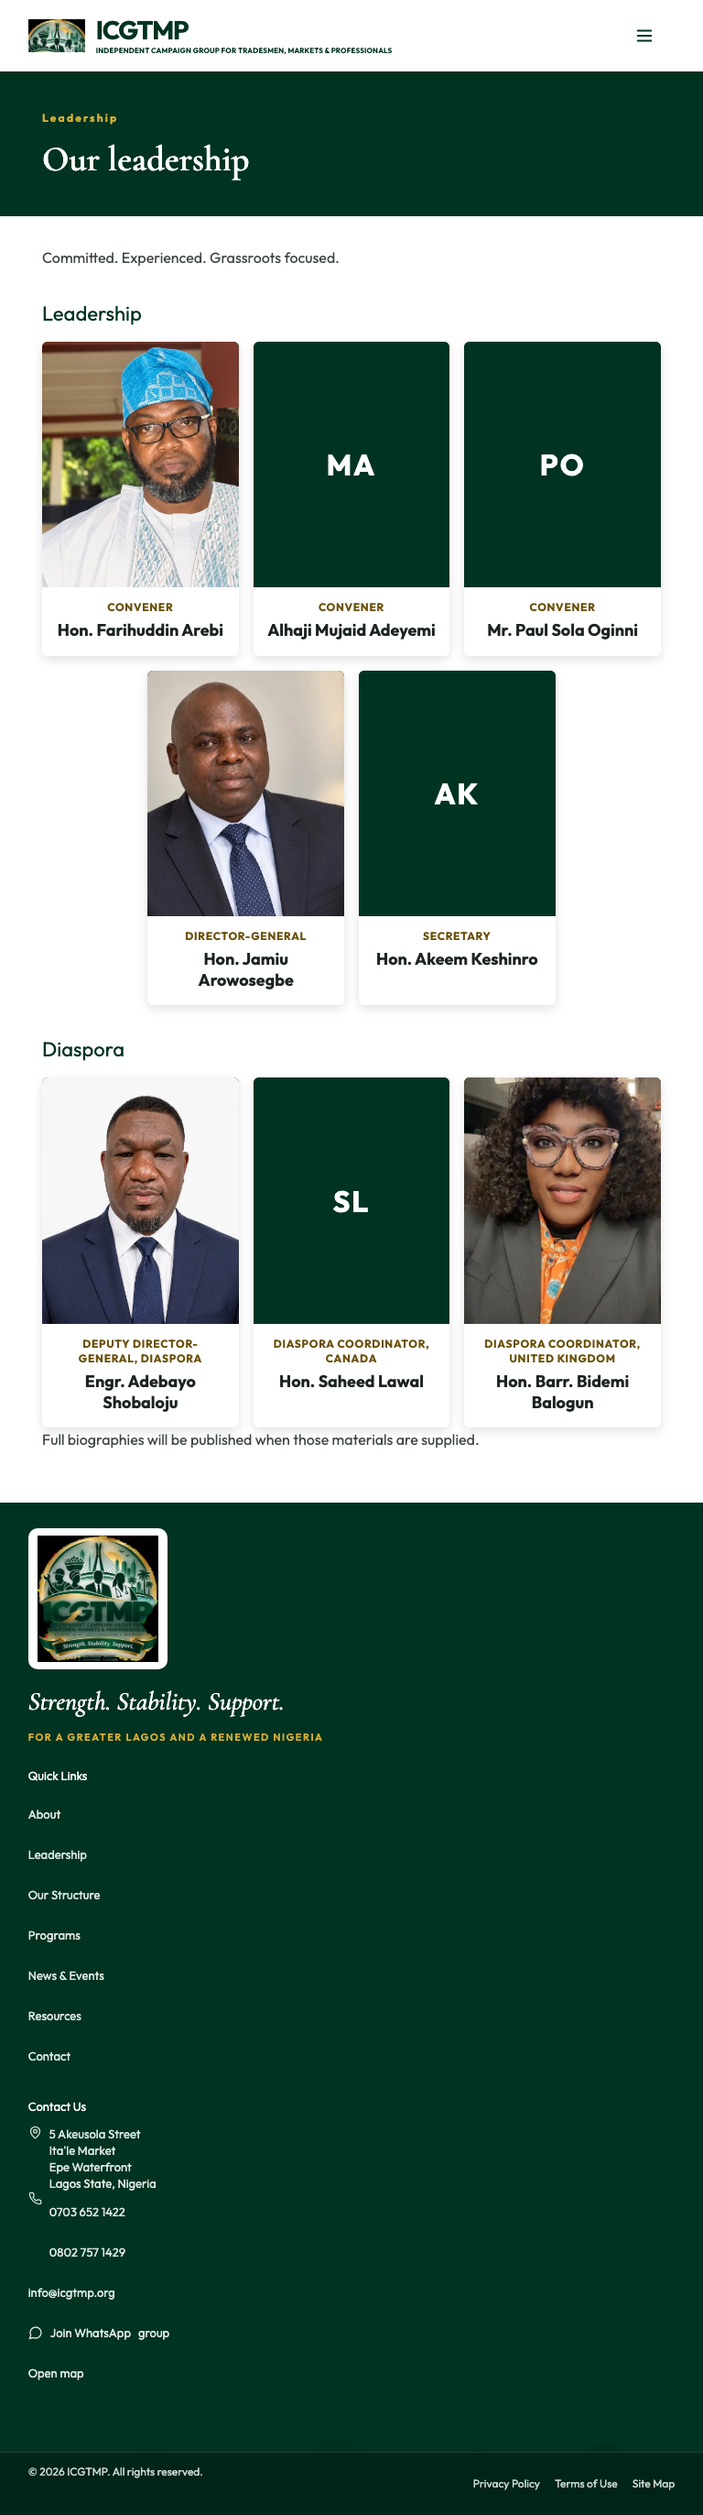
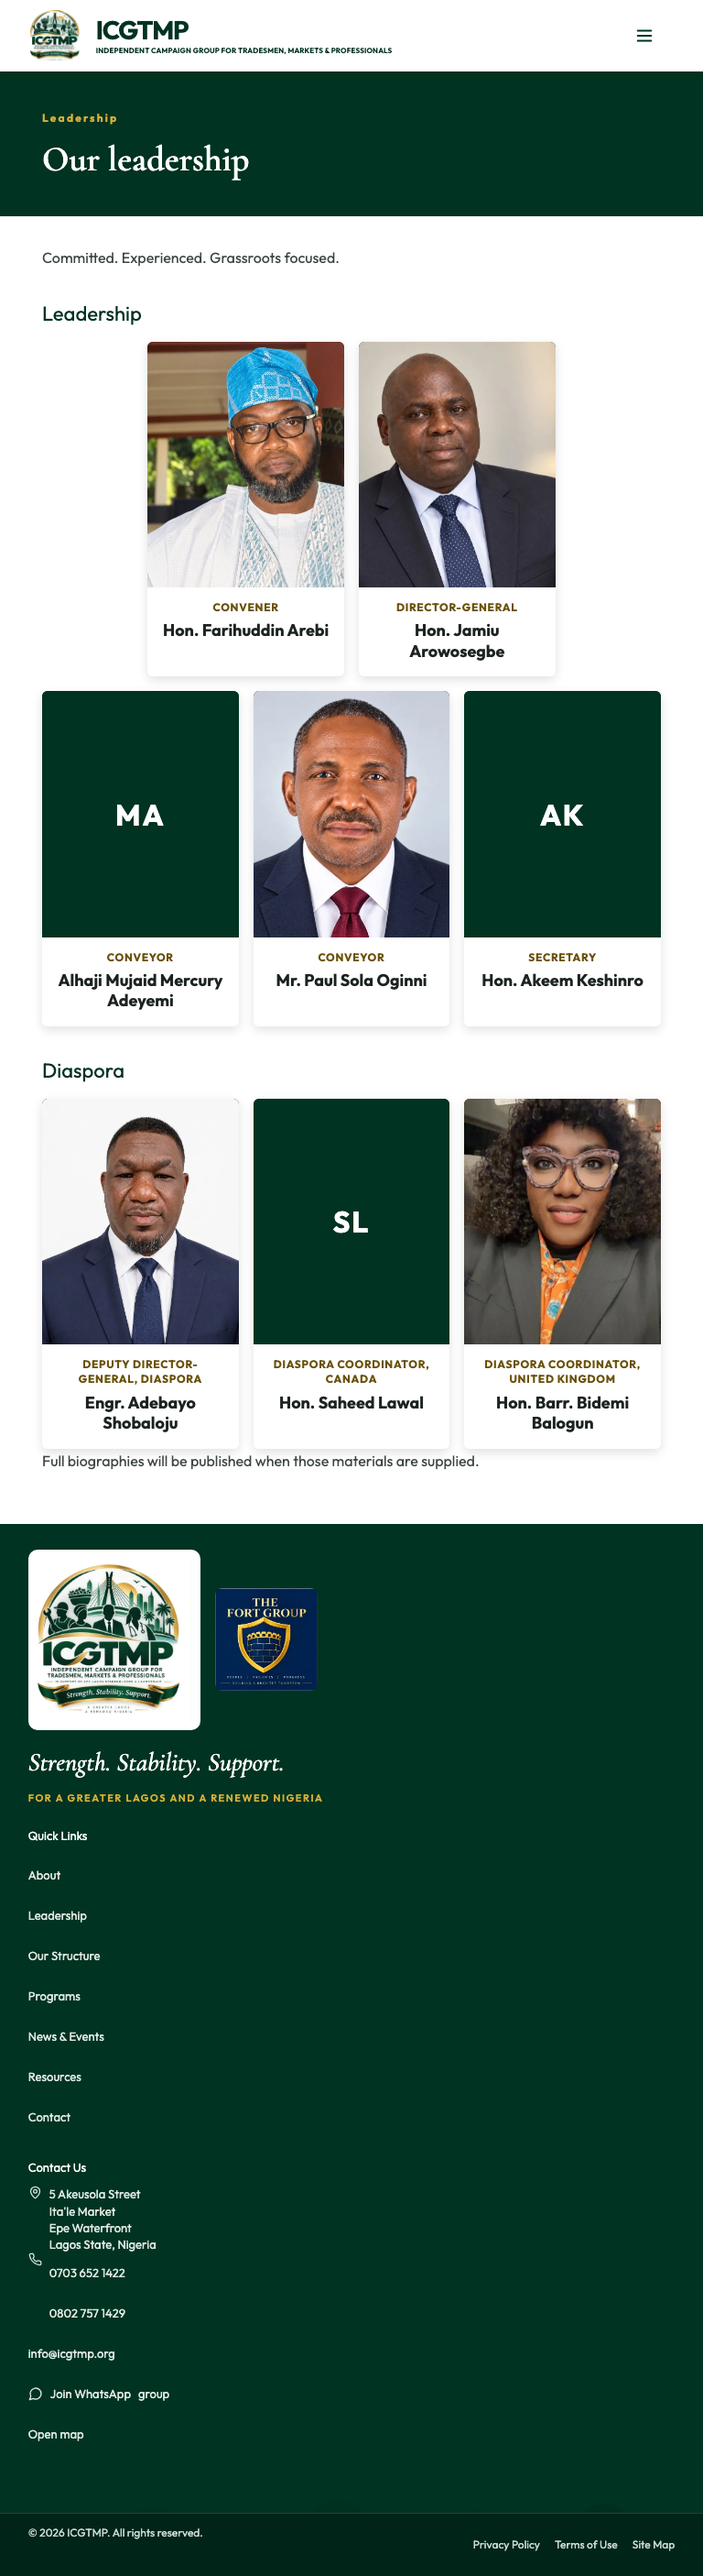
Place the Conveyors under the Convener and Director-General, and use the official marks.

diff --git a/src/index.css b/src/index.css
@@ -739,11 +739,11 @@ section[id], article[id], footer[id], #home, #home-lower { scroll-margin-top: 12
   gap: var(--leader-gap);
   align-items: stretch;
 }
-.leaderRowLeadership { grid-template-columns: repeat(5, minmax(0, 1fr)); }
-.leaderRowDiaspora {
-  grid-template-columns: repeat(3, calc((100% - 4 * var(--leader-gap)) / 5));
-  justify-content: center;
-}
+.leaderRowLeadership { grid-template-columns: repeat(6, minmax(0, 1fr)); }
+.leaderRowLeadership .leaderCard { grid-column: span 2; }
+.leaderRowLeadership .leaderCard:nth-child(1) { grid-column: 2 / span 2; }
+.leaderRowLeadership .leaderCard:nth-child(2) { grid-column: 4 / span 2; }
+.leaderRowDiaspora { grid-template-columns: repeat(3, minmax(0, 1fr)); }
 .leaderCard {
   background: #fff;
   border-radius: 6px;
@@ -1024,10 +1024,12 @@ section[id], article[id], footer[id], #home, #home-lower { scroll-margin-top: 12
   padding: 8px 10px;
 }
 .brandLogoPlate img {
-  width: 132px;
+  width: 168px;
   height: auto;
 }
 .footerBrand { display: flex; flex-direction: column; gap: 14px; }
+.footerMarks { display: flex; align-items: center; gap: 16px; flex-wrap: wrap; }
+.fortMark { width: 112px; height: auto; border-radius: 8px; display: block; }
 .footerMotto { display: flex; flex-direction: column; justify-content: center; }
 .footerMotto em {
   font-family: var(--font-serif);
@@ -1433,13 +1435,6 @@ main h1:focus-visible {
   }
 }
 
-@media (max-width: 1279px) {
-  .leaderRowLeadership { grid-template-columns: repeat(6, minmax(0, 1fr)); }
-  .leaderRowLeadership .leaderCard { grid-column: span 2; }
-  .leaderRowLeadership .leaderCard:nth-child(4) { grid-column: 2 / span 2; }
-  .leaderRowLeadership .leaderCard:nth-child(5) { grid-column: 4 / span 2; }
-  .leaderRowDiaspora { grid-template-columns: repeat(3, minmax(0, 1fr)); }
-}
 
 @media (max-width: 640px) {
   .brandText strong { font-size: 22px; }
@@ -1448,8 +1443,8 @@ main h1:focus-visible {
   .leaderRowLeadership,
   .leaderRowDiaspora { grid-template-columns: 1fr; }
   .leaderRowLeadership .leaderCard,
-  .leaderRowLeadership .leaderCard:nth-child(4),
-  .leaderRowLeadership .leaderCard:nth-child(5) { grid-column: auto; }
+  .leaderRowLeadership .leaderCard:nth-child(1),
+  .leaderRowLeadership .leaderCard:nth-child(2) { grid-column: auto; }
   .sectorGrid { grid-template-columns: 1fr; }
   .impactStrip { grid-template-columns: 1fr 1fr; }
   .impactTitle, .impactStrip blockquote { grid-column: span 2; }

diff --git a/src/data/leaders.ts b/src/data/leaders.ts
@@ -49,30 +49,32 @@ export const leaders: Leader[] = [
     objectPositionMobile: '50% 50%',
   },
   {
-    slug: 'mujaid-adeyemi',
-    name: 'Alhaji Mujaid Adeyemi',
-    role: 'Convener',
+    slug: 'jamiu-arowosegbe',
+    name: 'Hon. Jamiu Arowosegbe',
+    role: 'Director-General',
     group: 'leadership',
     order: 2,
+    photo: '/leaders/jamiu-arowosegbe.webp',
+    objectPosition: '50% 18%',
+    objectPositionMobile: '50% 16%',
+  },
+  {
+    slug: 'mujaid-adeyemi',
+    name: 'Alhaji Mujaid Mercury Adeyemi',
+    role: 'Conveyor',
+    group: 'leadership',
+    order: 3,
     photo: '/leaders/mujaid-adeyemi.webp',
   },
   {
     slug: 'paul-sola-oginni',
     name: 'Mr. Paul Sola Oginni',
-    role: 'Convener',
-    group: 'leadership',
-    order: 3,
-    photo: '/leaders/paul-sola-oginni.webp',
-  },
-  {
-    slug: 'jamiu-arowosegbe',
-    name: 'Hon. Jamiu Arowosegbe',
-    role: 'Director-General',
+    role: 'Conveyor',
     group: 'leadership',
     order: 4,
-    photo: '/leaders/jamiu-arowosegbe.webp',
-    objectPosition: '50% 18%',
-    objectPositionMobile: '50% 16%',
+    photo: '/leaders/paul-sola-oginni.webp',
+    objectPosition: '50% 50%',
+    objectPositionMobile: '50% 50%',
   },
   {
     slug: 'akeem-keshinro',

diff --git a/src/data/images.ts b/src/data/images.ts
@@ -4,6 +4,7 @@
 export const images = {
   logo: '/resources/icgtmp-logo.webp',
   emblem: '/resources/icgtmp-emblem.webp',
+  fortGroup: '/resources/fort-group-logo.webp',
   og: '/resources/og-image.webp',
   hero: '/resources/hero-05.webp',
   hero05: '/resources/hero-05.webp',
@@ -33,7 +34,8 @@ export const sectorSrcSet = {
 
 export const imageAlts = {
   logo: 'ICGTMP logo — Independent Campaign Group for Tradesmen, Markets & Professionals',
-  emblem: 'ICGTMP emblem showing Lagos landmarks and community figures',
+  emblem: '',
+  fortGroup: 'The Fort Group',
   hero: 'A Stronger Lagos Through Its People — ICGTMP hero with the Lekki-Ikoyi Link Bridge at dusk',
   hero05: 'A Stronger Lagos Through Its People — ICGTMP hero with the Lekki-Ikoyi Link Bridge at dusk',
   hero00: 'A Brighter Lagos Tomorrow — modern infrastructure and inclusive growth',

diff --git a/src/components/Brand.tsx b/src/components/Brand.tsx
@@ -9,11 +9,14 @@ type Props = {
 export function Brand({ variant = 'header' }: Props) {
   if (variant === 'footer') {
     return (
-      <Link className="brand brandFooter" to="/">
-        <span className="brandLogoPlate">
-          <img src={images.logo} alt={imageAlts.logo} width={148} height={154} />
-        </span>
-      </Link>
+      <div className="footerMarks">
+        <Link className="brand brandFooter" to="/">
+          <span className="brandLogoPlate">
+            <img src={images.logo} alt={imageAlts.logo} width={180} height={194} />
+          </span>
+        </Link>
+        <img className="fortMark" src={images.fortGroup} alt={imageAlts.fortGroup} width={112} height={112} />
+      </div>
     );
   }
 

diff --git a/CONTENT_NEEDED.md b/CONTENT_NEEDED.md
@@ -11,7 +11,6 @@ Items marked for confirmation in the programme-page copy. They are not published
 
 These files are not in the site. The cards show a monogram until the portrait is added. Do not substitute a stock photo or another person's image.
 
-- `/leaders/mujaid-adeyemi.webp` — Alhaji Mujaid Adeyemi, Convener
-- `/leaders/paul-sola-oginni.webp` — Mr. Paul Sola Oginni, Convener
+- `/leaders/mujaid-adeyemi.webp` — Alhaji Mujaid Mercury Adeyemi, Conveyor
 - `/leaders/akeem-keshinro.webp` — Hon. Akeem Keshinro, Secretary
 - `/leaders/saheed-lawal.webp` — Hon. Saheed Lawal, Diaspora Coordinator, Canada
